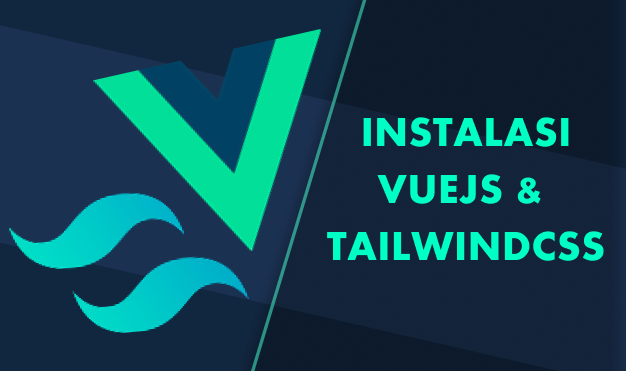
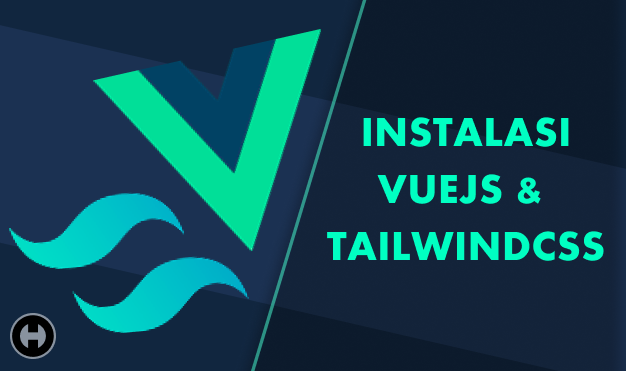
complete content tutorial html - tag a, add watermark for images on tutorial

Changed region(s): [[0.0, 0.8302, 0.0911, 0.9784]]

diff --git a/src/styles/tailwind.css b/src/styles/tailwind.css
@@ -22,13 +22,18 @@ html {
 }
 
 #content :is(h1,h2,h3) a {
-  @apply text-current opacity-60 hover:opacity-100;
+  @apply text-current opacity-0 transition duration-100 hover:opacity-90;
+}
+
+#content :is(h1,h2,h3):hover a {
+  @apply opacity-60;
 }
 
 
 #content h1 {
   @apply text-2xl mb-3 font-bold;
 }
+
 #content h2 {
   @apply text-xl mb-3 font-semibold;
 }
@@ -69,7 +74,11 @@ html {
 }
 
 #table-of-contents ul {
-  @apply list-disc pl-5 pt-2;
+  @apply list-disc pl-5 pt-2 font-bold;
+}
+
+#table-of-contents .list-inside {
+	@apply font-medium list-none text-gray-600 before:content-['-'] before:pr-2;
 }
 
 #table-of-contents ul > li {

diff --git a/src/components/Mdx/A.js b/src/components/Mdx/A.js
@@ -1,15 +1,11 @@
 import React from "react"
 
 const A = props => {
-	if (
-		props.href.includes('https://hartdev.site') 
-		|| props.href[0] === '/' 
-		|| props.href[0] === '#'
-	) {
-		return <a href={props.href}>{props.children}</a>
+	if (props.href && ['/', '#'].includes(props.href[0])) {
+		return <a {...props}>{props.children}</a>
 	}
 	return (
-		<a href={props.href} target="_blank" rel="noopener noreferrer">
+		<a {...props} target="_blank" rel="noopener noreferrer">
 			{props.children}
 		</a>
 	)

diff --git a/src/templates/single-post-template/index.js b/src/templates/single-post-template/index.js
@@ -35,7 +35,7 @@ const SinglePostTemplate = ({ data, location, pageContext }) => {
         mainClass="pt-20 w-full p-3 lg:p-20"
       >
         <div className="grid grid-cols-12 xl:pl-36 -mt-5 md:mt-0">
-          <main className="col-span-12 lg:col-span-8">
+          <main className="col-span-12 lg:col-span-8 pr-5">
             <article className="relative" itemScope itemType="http://schema.org/Article">
 
               <PostHeader post={post} pathSeries={pageContext?.pathSeries} />

diff --git a/src/components/Partials/CopyButton.js b/src/components/Partials/CopyButton.js
@@ -37,7 +37,7 @@ const copyToClipboard = (str) => {
 const CopyCodeButton = ({
   className,
   content, // raw content passed by gatsby-remark-pre-content
-  duration = 5000,
+  duration = 3000,
   trim = false,
 }) => {
   const [copied, setCopied] = useState(false);

diff --git a/src/components/Posts/TableOfContent.js b/src/components/Posts/TableOfContent.js
@@ -11,7 +11,7 @@ function TableOfContent ({ title, headings }) {
   })
   return (
     <nav id="table-of-contents">
-      <h1 className="text-xl font-medium">
+      <h1 className="text-2xl font-bold">
         {title}
       </h1>
       <ul>

diff --git a/src/_contents/tutorial/html-tag-dan-atribut/tag-a/index.md b/src/_contents/tutorial/html-tag-dan-atribut/tag-a/index.md
@@ -1,0 +1,210 @@
+---
+title: "Tag A Dan Semua Atributnya #1"
+description: "Penjelasan tag html dan semua Atributnya"
+date: 2021-09-13
+keyword: [html]
+tags: [html]
+series: HTML - Tag dan Atribut
+thumb: ./tag-a-dan-semua-atributnya.png
+contentType: single
+---
+ 
+Hei Coder, pada tutorial html kali ini saya akan menjelaskan mengenai tag a berserta atribut-atributnya.
+
+tag a adalah sebuah tag pada html untuk membuat sebuah link yang digunakan untuk pindah ke sebuah halaman lain pada website kita (internal link) atau dapat juga pindah ke website orang lain (eksternal link).
+
+tag a memiliki beberapa atribut yang dapat digunakan.
+
+lalu apa saja atribut yang ada pada tag a, yuk langsung disimak.
+
+<br/>
+
+# href
+
+atribut href adalah atribut yang paling sering digunakan pada tag a, dikarenakan href adalah atribut yang digunakan untuk menyimpan sebuah link agar tag a dapat mengetahui link tujuannya ketika di klik.
+
+<div className="h-3"/>
+
+## contoh href
+
+```html filename=index.html
+<a href="https://hartdev.site">Kunjungi HartDev</a>
+```
+
+pada kode diatas kita membuat sebuah tag a dengan atribut href yang berisikan link tujuan.
+ketika kita klik tulisan **Kunjungi halaman utama HartDev**, kita akan langsung dipindahkan ke halaman utama website HartDev.
+
+-> <a href="https://hartdev.site" target="_blank">Kunjungi halaman utama HartDev</a>
+
+jika kalian klik link di atas kalian akan langsung dipindahkan ke halaman utama HartDev.
+
+tapi kok dibuka pada tab baru ? 
+
+itu karena saya menggunakan atribut target.
+
+<br/>
+
+# target
+
+atribut target adalah atribut yang digunakan untuk memberitahu tag a bagaimana link tersebut harus terbuka saat diklik.
+ada beberapa value pada atribut target, antara lain
+
+  - _blank = untuk membuka link pada tab atau window baru
+  - _self = untuk membuka link pada tab saat ini (nilai default)
+  - _parent = untuk membuka link pada frame yang satu tingkat di atas frame link tersebut berada
+  - _top = untuk membuka link di frame paling atas (paling luar)
+  - framename = untuk membuka frame sesuai nama yang ditentukan
+
+untuk _parent, _top, framename itu jarang sekali digunakan.
+
+dari yang saya baca pada beberapa artikel, itu digunakan di dalam tag iframe yang memuat sebuah website.
+
+<div className="h-3"/>
+
+## contoh target
+```html
+<a href="https://hartdev.site" target="_blank">
+  Kunjungi halaman utama HartDev
+</a>
+```
+
+
+pada kode diatas kita membuat sebuah tag a dengan atribut target yang diberi value _blank yang diartikan ketika kita klik link tersebut, akan dibukakan pada tab baru.
+
+-> <a href="https://hartdev.site" target="_blank">Kunjungi halaman utama HartDev</a>
+
+<br/>
+
+# download
+atribut download adalah atribut yang digunakan untuk melakukan download berupa file pada link yang dimasukan pada atribut href.
+
+atribut download juga dapat memberikan nama kostum pada file yang akan didownload.
+
+<div className="h-3"/>
+
+## contoh download #1
+
+```html
+<a href="/logo.png" download>
+  Download logo default name
+</a>
+```
+
+kode di atas kita mendefinisikan atribut download namun tidak memberikan value, yang artinya file yang akan kita download menggunakan nama file default yaitu **logo.png**.
+
+-> <a href="/logo.png" download>Download logo default name</a>
+
+<div className="h-3"/>
+
+## contoh download #2
+
+```html
+<a href="/logo.png" download="logo-hartdev">
+  Download logo custom name
+</a>
+```
+
+kode di atas kita mendefinisikan atribut download dengan value **logo-hartdev**, yang artinya file yang akan kita download akan adalah **logo-hartdev.png**
+
+-> <a href="/logo.png" download="logo-hartdev">Download logo custom name</a>
+
+<br/>
+
+# type 
+atribut download adalah atribut yang digunakan untuk memberikan media type pada link tujuan atau lebih sering disebut juga MIME type.
+
+untuk melihat semua media type yang dapat digunakan, kalian bisa kunjungi link dibawah ini.
+
+https://www.iana.org/assignments/media-types/media-types.xhtml
+
+<div className="h-3"/>
+
+## contoh type
+```html
+<a href="https://hartdev.site" type="text/html">HartDev Website</a>
+```
+
+<br/>
+
+# rel
+atribut rel adalah atribut yang digunakan untuk memberi tahu hubungan antara website kita dengan link tujuan, dan berguna untuk Search engine mengetahui informasi lebih tantang link tujuan.
+
+value yang dapat digunakan
+ - alternate
+ - author
+ - bookmark
+ - external
+ - help
+ - license
+ - next
+ - nofollow
+ - noopener
+ - noreferrer
+ - prev
+ - search
+ - tag
+
+<div className="h-3"/>
+
+## contoh rel
+```html
+<a href="https://www.github.com/" rel="nofollow">Github</a>
+```
+
+<br/>
+
+# hreflang
+atribut hreflang adalah atribut yang digunakan untuk memberi tahu bahasa yang digunakan pada link tujuan.
+
+<div className="h-3"/>
+
+## contoh hreflang
+```html
+<a href="https://www.github.com/" hreflang="en">Github</a>
+```
+
+<br/>
+
+# ping
+atribut ping adalah atribut yang digunakan untuk memberi tahu link tujuan ketika kita mengklik link tersebut.
+
+atribut ini berguna untuk monitoring/tracking.
+
+<div className="h-3"/>
+
+## contoh ping
+```html
+<a href="https://www.w3schools.com/html" ping="https://www.w3schools.com/trackpings">
+```
+
+<br/>
+
+# referrerpolicy
+atribut ping adalah atribut yang digunakan untuk mengirim referrer information ketika kita mengklik link tujuan.
+
+value yang dapat digunakan:
+  - no-referrer
+  - no-referrer-when-downgrade
+  - origin
+  - origin-when-cross-origin
+  - same-origin
+  - strict-origin-when-cross-origin
+  - unsafe-url
+
+<div className="h-3"/>
+
+## contoh referrerpolicy
+```html
+<a href="https://www.hartdev.site" referrerpolicy="origin">
+```
+
+<br/>
+
+# Penutup
+jadi itulah penjelasan atribut-atribut yang ada pada tag **a**.
+
+selain atribut diatas,tentu saja tag a juga dapat menggunakan global atribut.
+
+kalian dapat melihatnya disini: [Global Atribut pada HTML](http://localhost:8000/tutorial/html-tag-dan-atribut/mengenal-global-atribut/)
+
+Terima kasih sudah membaca tulisan ini dari awal sampai selesai, semoga bermanfaat :)
